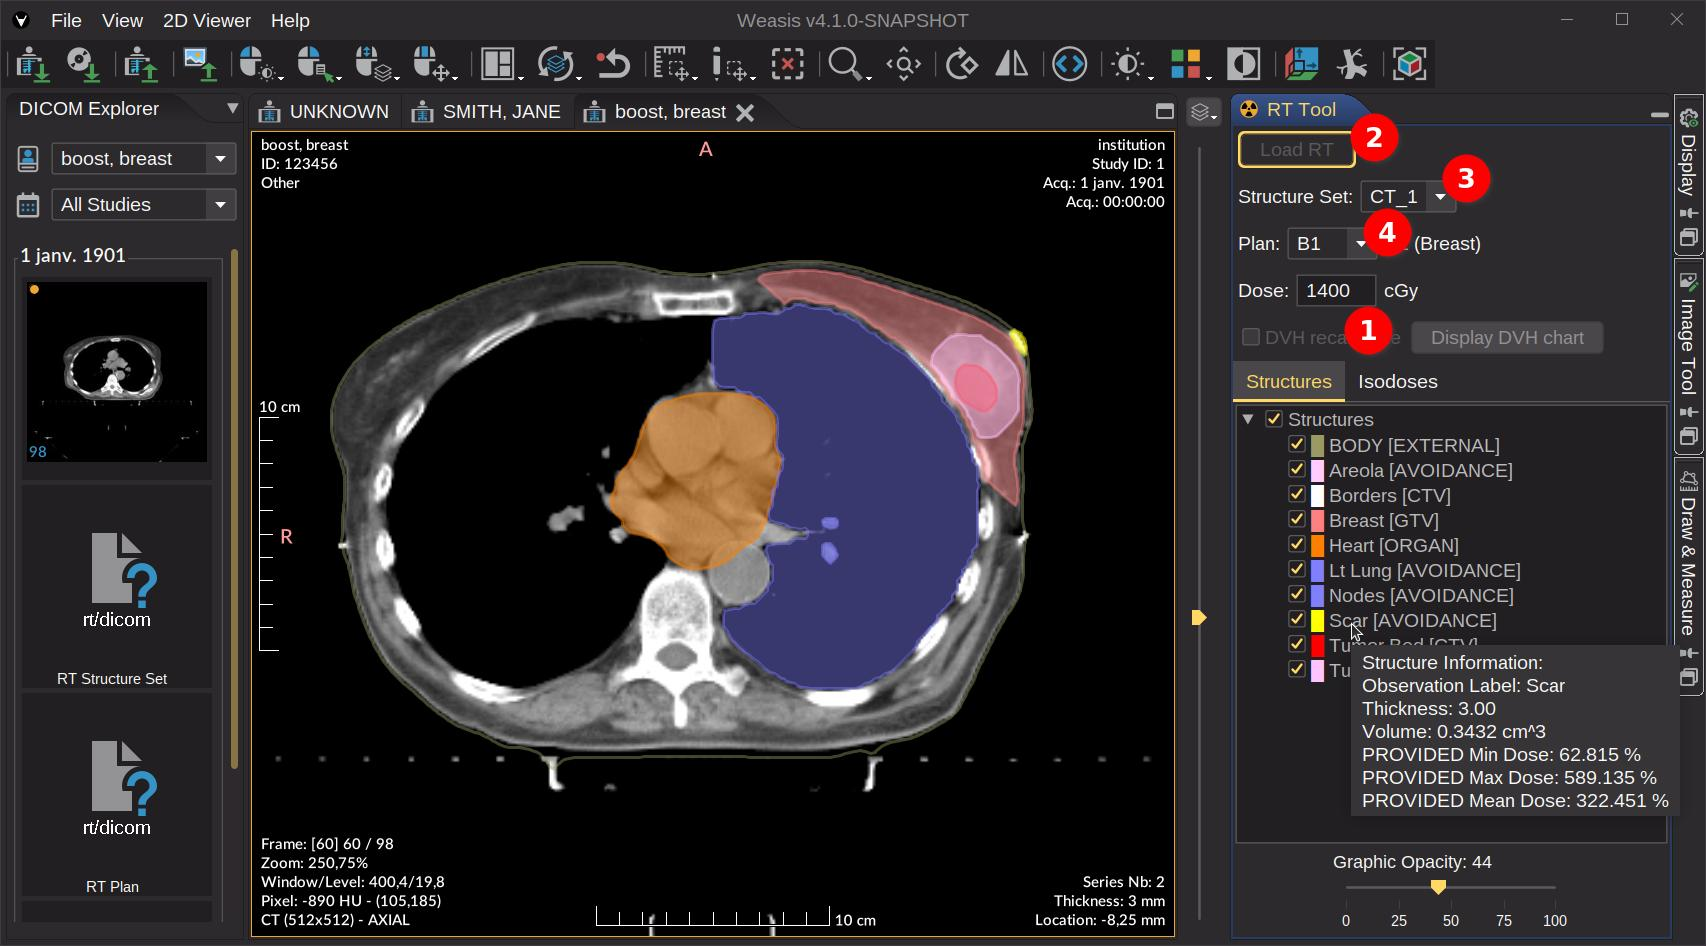
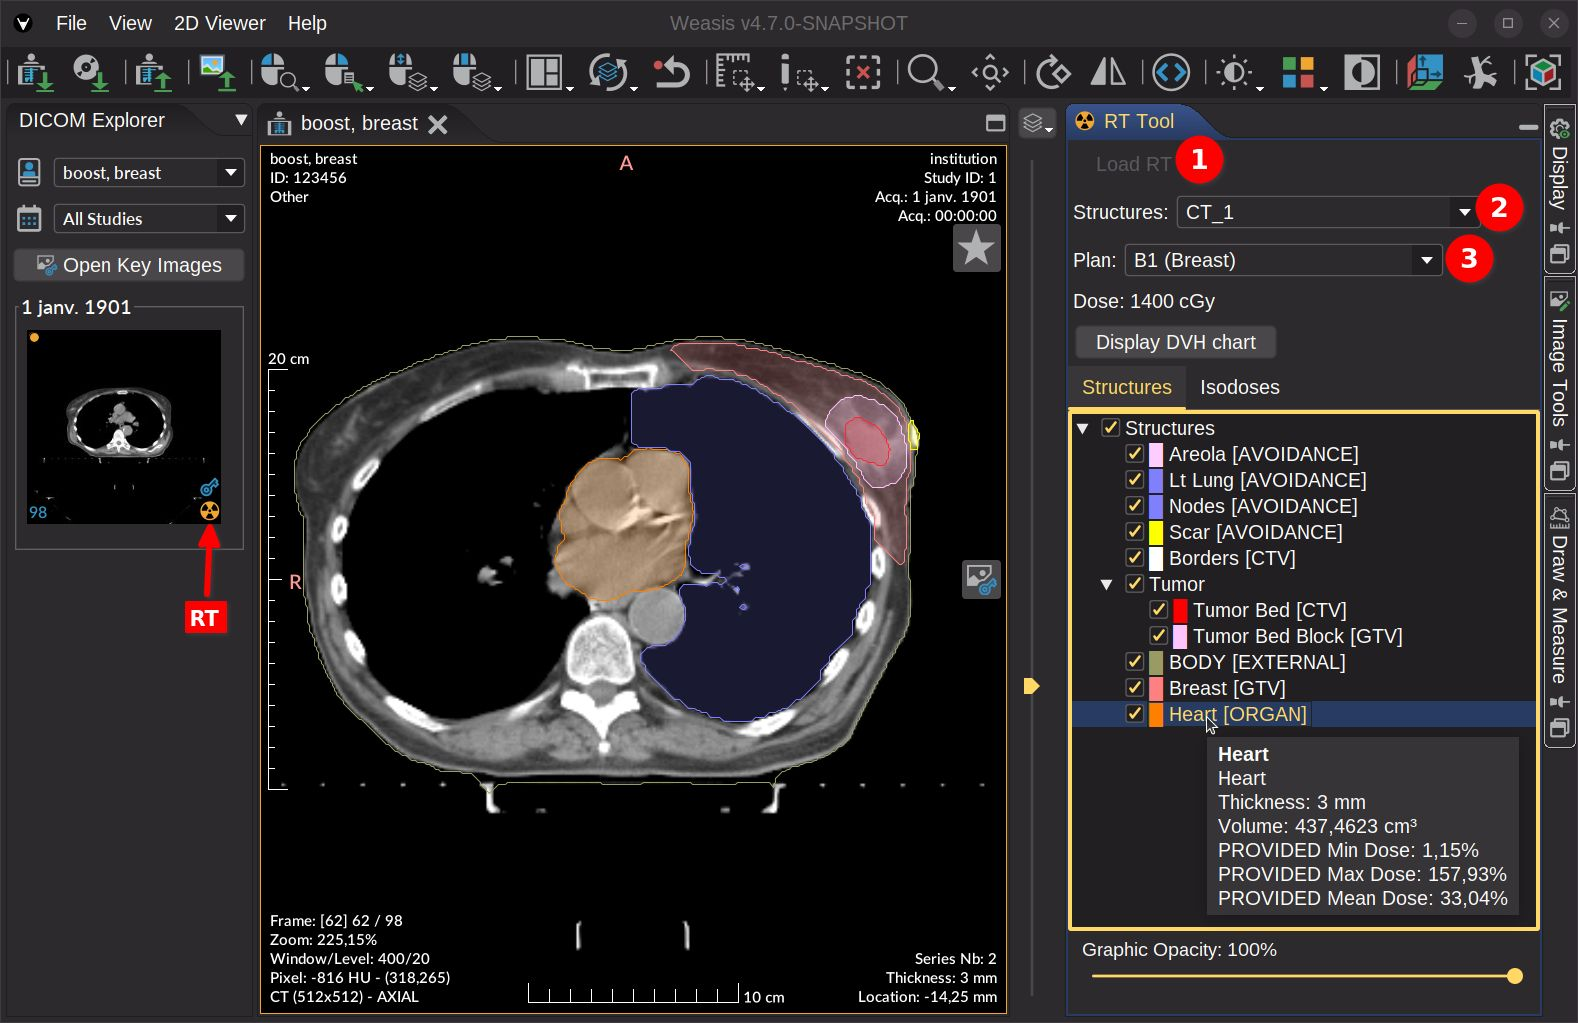
Update DICOM RT tutorial

diff --git a/layouts/shortcodes/svg-inline.html b/layouts/shortcodes/svg-inline.html
@@ -1,3 +1,3 @@
-{{ $svg := .Get 0 }}
-{{ $rawSvg := $svg | readFile | safeHTML }}
-{{ $rawSvg | replaceRE "(<svg)(\\s|>)" "${1} class=\"inline\" style=\"vertical-align: middle;\"${2}" | safeHTML }}
+{{- $svg := .Get 0 -}}
+{{- $rawSvg := $svg | readFile | safeHTML -}}
+{{- $rawSvg | replaceRE "(<svg)(\\s|>)" "${1} class=\"inline\" style=\"vertical-align: middle;\"${2}" | safeHTML -}}

diff --git a/content/tutorials/zoom.en.md b/content/tutorials/zoom.en.md
@@ -42,14 +42,65 @@ The toolbar and context menu offer three preset zoom options:
 
 ### Real-world Size Display {{< svg-inline "static/tuto/icon/zoomRealWorld.svg" >}} {#real-world-size-display}
 
-To display images at their actual physical size:
+Real-world size means **1 mm on the image equals 1 mm on the screen**, so anatomical
+structures appear at their true physical dimensions. This is essential for visual size
+estimation, surgical planning, prosthesis sizing, or any clinical comparison done
+directly on the monitor.
 
-1. Open Preferences: _File > Preferences (Alt + P) > Monitors_
-2. Click _Spatial calibration_
-3. Enter your screen's line length or diagonal length
+For Weasis to compute this accurately, it needs two things:
 
-{{% notice note %}}
-Each monitor can have its own calibration setting
+1. The **DICOM pixel spacing** of the image (already stored by the modality).
+2. The **physical size of one screen pixel** for each monitor — this is what the
+   *Spatial Calibration* step below provides.
+
+Without calibration the {{< svg-inline "static/tuto/icon/zoomRealWorld.svg" >}}
+*Real-world Size* preset falls back to the operating system DPI, which is rarely
+correct.
+
+#### What you need
+
+* A precise ruler or, ideally, a **caliper** (mm or 1/10 mm graduations).
+* The monitor in its **final position and resolution** (do not change the OS scaling
+  afterwards).
+
+#### Step-by-step calibration
+
+1. Open _File > Preferences (Alt + P) > Monitors_.
+2. The list shows every detected monitor with its pixel resolution; once calibrated,
+   the real width × height in mm is appended in parentheses.
+3. Click **Spatial calibration** next to the monitor you want to calibrate. A
+   fullscreen window opens on **that** monitor and draws a black background with a
+   white horizontal and a white vertical line.
+4. Physically measure one of the three references on the screen surface:
+   * the **horizontal line**,
+   * the **vertical line**, or
+   * the screen **diagonal** (corner to corner of the visible glass).
+5. At the bottom of the dialog, choose the matching reference in the first dropdown
+   (*Horizontal line* / *Vertical line* / *Screen size*), type the measured value, and
+   pick the unit (mm, cm, 1/1000 in, in).
+6. Click **Apply**. The dialog redraws each line with its computed real length next to
+   it; cross-check that the displayed value matches what you measured (within
+   ±0.5 mm). Re-measure and re-apply if needed.
+7. Close the calibration window. The Monitors page now shows the screen's real size
+   and the value is persisted (per monitor) for the next sessions.
+8. Activate the result in any 2D viewer with the
+   {{< svg-inline "static/tuto/icon/zoomRealWorld.svg" >}} *Real-world Size* preset
+   (toolbar dropdown, context menu *Zoom*, or the image tool panel).
+
+
+#### Verifying the result
+
+Open any image whose dimensions you know (for example a calibration phantom, a CR/DX
+study with a visible ruler, or a printed test pattern displayed full screen) and
+switch to {{< svg-inline "static/tuto/icon/zoomRealWorld.svg" >}} *Real-world Size*.
+Use the [length measurement tool](../draw-measure) and compare with the physical
+ruler — the values should match within a fraction of a millimetre.
+
+{{% notice warning %}}
+If *Real-world Size* still looks wrong after calibration, check that the image itself
+has valid **Pixel Spacing** (or Imager Pixel Spacing for projection radiography). Some
+secondary captures and screenshots ship without spatial information and cannot be
+displayed at real size.
 {{% /notice %}}
 
 ## Magnifying Lens {{< svg-inline "static/tuto/icon/zoomPan.svg" >}}

diff --git a/content/tutorials/dicom-rt.en.md b/content/tutorials/dicom-rt.en.md
@@ -12,10 +12,9 @@ The _RT Tool_ appears on the right panel when a CT exam (when linked with DICOM 
 ### How to display structure and isodose
 In order to display the structures in overlay on the image, apply the following points (see in the image below):
 
-1. {{% badge style="info" %}}Optional{{% /badge %}} When selected, it allows you to force the DVH calculations. Otherwise, it is calculated only if some information is not available in the DICOM files.
-2. Click on "_Load RT_" button to load DICOM STRUCT, PLAN and DOSE associated the CT images. Once loaded, the button becomes inactive.
-3. {{% badge style="info" %}}Optional{{% /badge %}} Select a structure if there is more than one.
-4. {{% badge style="info" %}}Optional{{% /badge %}} Select a plan if there is more than one.
+1. Click on "_Load RT_" button to load DICOM STRUCT, PLAN and DOSE associated the CT images. Once loaded, the button becomes inactive.
+2. {{% badge style="info" %}}Optional{{% /badge %}} Select a structure if there is more than one.
+3. {{% badge style="info" %}}Optional{{% /badge %}} Select a plan if there is more than one.
 
 Try to open an RT sample {{< launch >}}
 $dicom:get -w "https://nroduit.github.io/demo-archive/demo/rt.xml"
@@ -42,13 +41,17 @@ For displaying the isodoses, apply the following points (see in the image below)
 
 1. Select the _Isodoses_ tab
 2. Check the _Isodoses_ root node which is not activated by default
-3. {{% badge style="info" %}}Optional{{% /badge %}} Adjust the graphic opacity
+3. {{% badge style="info" %}}Optional{{% /badge %}} Adjust the graphic opacity (default: 50%)
 
-![DICOM DOSE](/tuto/dicom-rt-dose.jpg?classes=shadow)
+![DICOM DOSE](/tuto/dicom-rt-dose.png?classes=shadow)
 <br>
 
 {{% notice tip %}}
 The "Structures" and "Isodoses" root node can be used to show or hide all graphics while the child nodes can be used independently for showing specific items.
+{{% /notice %}}
+
+{{% notice note %}}
+Since {{% badge title="Version" %}}4.7.0{{% /badge %}} the isodose overlay is rendered directly from the **RTDOSE pixel grid** (resampled to the CT image grid using nearest-neighbor interpolation) instead of vector contours. This provides a more faithful representation of the dose distribution stored in the DICOM file, especially around steep dose gradients.
 {{% /notice %}}
 
 
@@ -57,6 +60,12 @@ The "Structures" and "Isodoses" root node can be used to show or hide all graphi
 * Click on the button "_Display DVH chart_"
 * Right-click on the chart to print or save as a PNG image or vector files such as SVG or EPS.
 
-![DICOM DVH](/tuto/dicom-rt-dvh.jpg?classes=shadow)
+{{% notice warning %}}
+Since {{% badge title="Version" %}}4.7.0{{% /badge %}} the DVH (re)calculation is **enabled by default**. When at least one of the selected structures has no DVH stored in the RTDOSE, a confirmation dialog lists the affected structures and asks whether to compute the missing DVH(s) on the fly.
+
+The calculation algorithm (derived from [dicompyler](https://github.com/dicompyler/dicompyler-core)) is **experimental and not clinically validated**: results must not be used for medical decisions. The feature can be disabled by setting the system preference `weasis.rt.dvh.recalculate.enable` to `false` (see `base.json`); when disabled, only DVHs already stored in the RTDOSE files are displayed.
+{{% /notice %}}
+
+![DICOM DVH](/tuto/dicom-rt-dvh.png?classes=shadow)
 <br>
 

diff --git a/content/tutorials/gui.en.md b/content/tutorials/gui.en.md
@@ -19,8 +19,24 @@ The interface of the default DICOM workspace consists mainly of 2 parts:
    * A tab is also a docked panel that can be arranged by dragging and dropping it to the desired location. This makes it possible to display two tabs side by side (see [docking](docking)).
    * See also [DICOM Explorer](dicom-explorer/) to understand how to navigate through the Patient/Study/Series/Image.
 
-{{% notice note %}}
-Select your preferred language and regional settings in the [preferences](locale). Adapt the graphical interface to your needs by [modifying the theme or the scaling factor](theme) for a better user experience on HiDPI screens.
+## Minimal configuration before starting
+
+Before using Weasis for the first time, a few settings can greatly improve your experience. Open the preferences dialog from the main menu: _File > Preferences (Alt + P)_.
+
+### Language and regional settings
+Select your preferred **language** and **regional format** (dates, numbers) in the _General_ tab of the preferences. Languages with at least 30% translation coverage are listed. Dates, numbers, and other locale-sensitive values will be displayed according to the selected regional format throughout the interface.
+
+➜ See [Language and regional settings](locale) for detailed instructions.
+
+### Theme and scaling factor
+In the _Appearance_ tab of the preferences, you can:
+- Choose a **theme** that suits your environment and reduces eye strain. The recommended theme is **Core Dark - Flat Weasis**.
+- Set a **scaling factor** to match your system display scaling. This is especially recommended for **HiDPI screens** — Weasis will then scale fonts, icons, and all UI components consistently with your operating system.
+
+➜ See [Styles and themes](theme) for detailed instructions.
+
+{{% notice tip %}}
+Whenever you need more complete instructions or explanations, use the {{< svg-inline "static/tuto/icon/help.svg" >}} button available in the preferences dialog or in contextual pop-ups. It will open the corresponding page of the online documentation directly in your browser.
 {{% /notice %}}
 
 {{% notice tip %}}
